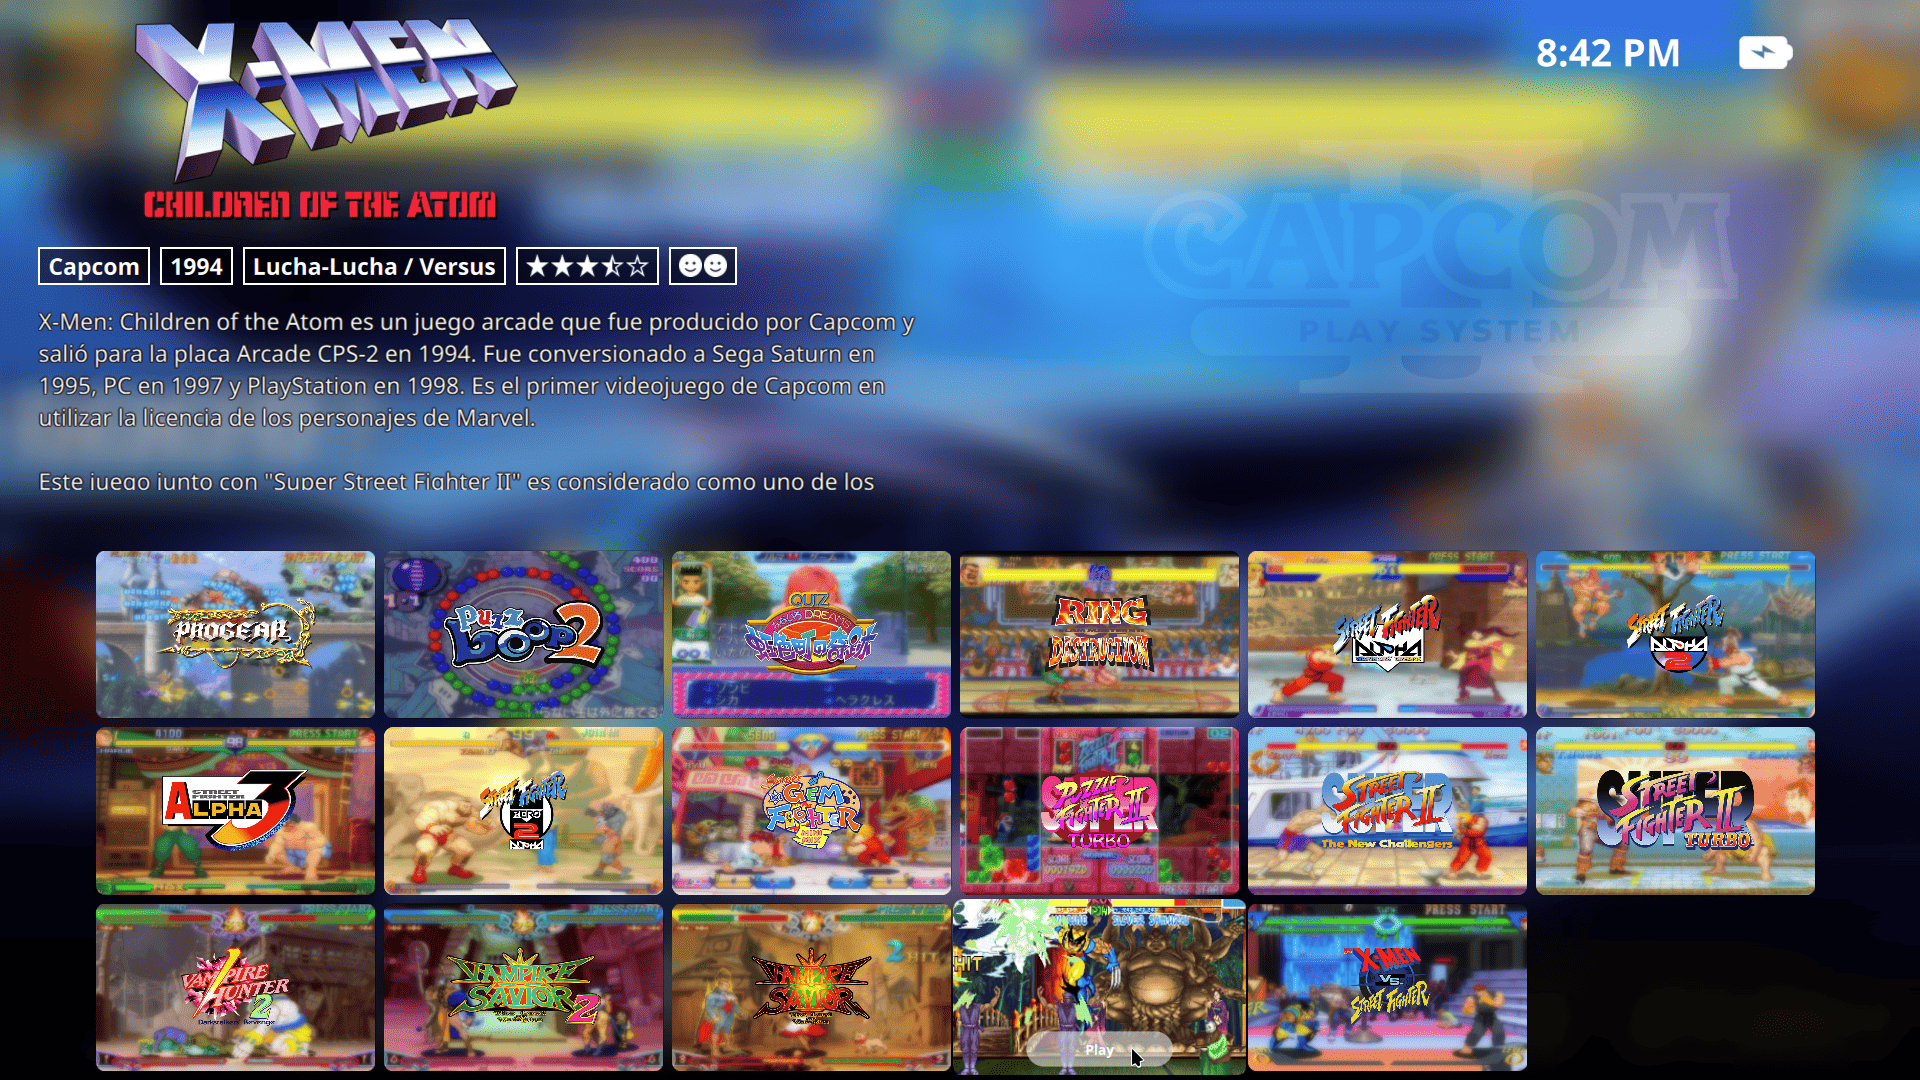
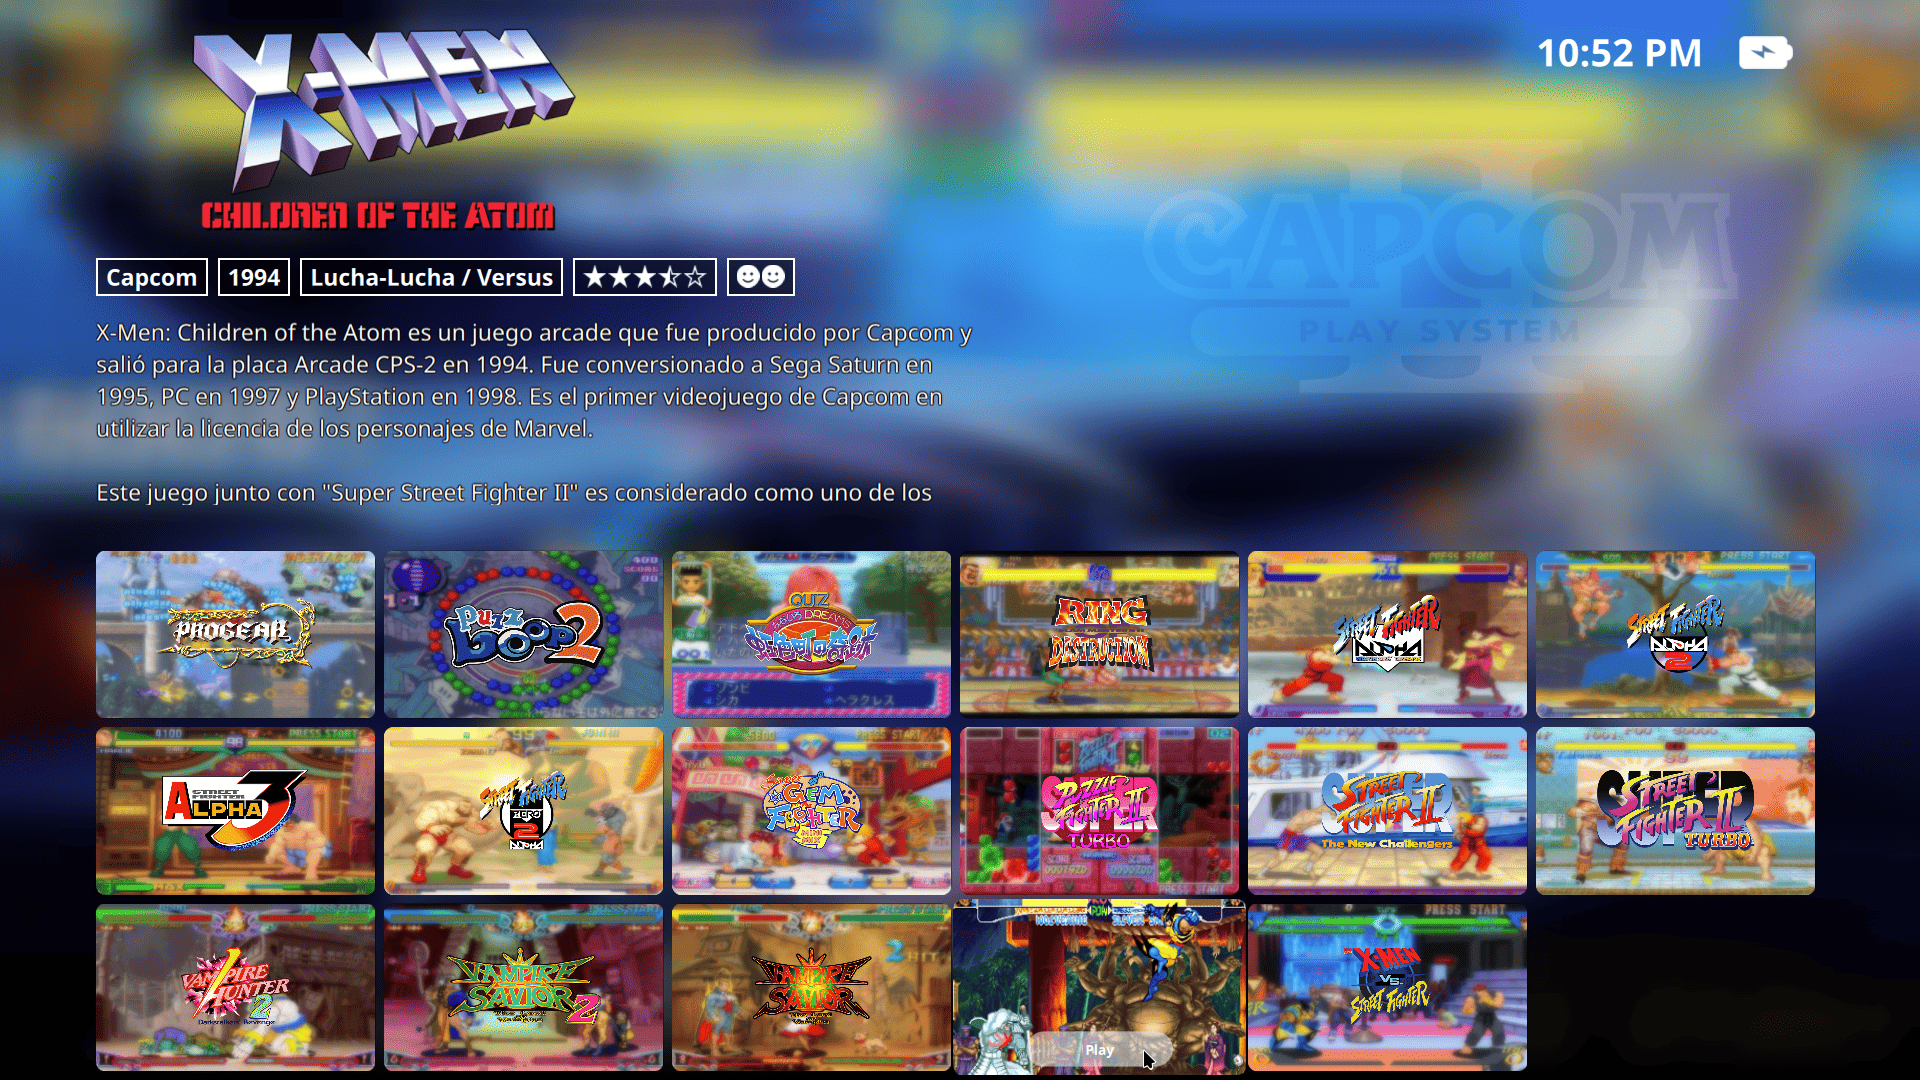
8-5-25

Changed region(s): [[0.0, 0.0, 1.0, 1.0]]

diff --git a/theme.qml b/theme.qml
@@ -1134,9 +1134,16 @@ FocusScope {
     Item {
         id: leftColumn
         width: parent.width * 0.80
-        height: parent.height * 0.50
+        height: parent.height * 0.51
         visible: gamesGridVisible
         clip: true
+
+        anchors {
+            left: parent.left
+            leftMargin: parent.width * 0.03
+            top: parent.top
+            topMargin: root.height * 0.01
+        }
 
         opacity: themeContainerOpacity
 
